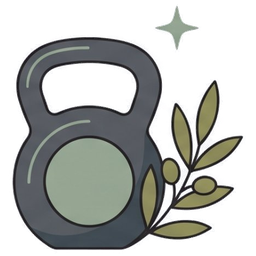
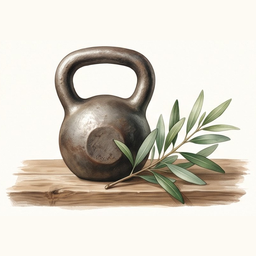
Notificações com as ilustrações em aquarela (o traço fica como opção)
Claude-Session: https://claude.ai/code/session_013QPmPYUzpR9EeXVYEPfhtw

diff --git a/web/sw.js b/web/sw.js
@@ -1,7 +1,7 @@
 // Service worker: deixa o Pauta abrir sem internet (a moldura do app fica guardada no aparelho).
 // Estratégia "rede primeiro": com internet, sempre a versão mais nova dos arquivos; sem, a guardada.
 // As chamadas à API (outro endereço) nunca passam pelo cache: os dados vêm sempre do banco.
-const VERSAO = 'pauta-rotina-v4';
+const VERSAO = 'pauta-rotina-v5';
 const ARQUIVOS = [
   './',
   'assets/favicon.svg',
@@ -43,6 +43,10 @@ const ARQUIVOS = [
   'assets/notificacao/agua.png',
   'assets/notificacao/estudo.png',
   'assets/notificacao/conclusao.png',
+  'assets/notificacao/traco/academia.png',
+  'assets/notificacao/traco/agua.png',
+  'assets/notificacao/traco/estudo.png',
+  'assets/notificacao/traco/conclusao.png',
   'js/ui/lembretes.js',
   'js/ui/icons.js',
   'js/ui/menu.js',

diff --git a/web/js/ui/emojis.js b/web/js/ui/emojis.js
@@ -3,7 +3,10 @@
 // (assets/notificacao/*.png); os outros hábitos usam emoji. É enfeite: o texto continua dizendo tudo.
 import { normalizar } from '../core/format.js';
 
-const FIGURA = (nome) => `assets/notificacao/${nome}.png`;
+// Dois conjuntos de ilustrações: 'aquarela' (padrão) e 'traco' (assets/notificacao/traco/).
+// Para trocar o estilo de todas as notificações, mude só esta linha.
+const ESTILO = 'aquarela';
+const FIGURA = (nome) => (ESTILO === 'traco' ? `assets/notificacao/traco/${nome}.png` : `assets/notificacao/${nome}.png`);
 /** A figura é uma ilustração (caminho de imagem) ou um emoji? */
 export const ehImagem = (figura) => typeof figura === 'string' && figura.startsWith('assets/');
 

diff --git a/web/css/componentes.css b/web/css/componentes.css
@@ -762,10 +762,10 @@ input[type='date'].entrada {
   width: 36px;
   height: 36px;
   margin: -6px 0 -6px -4px;
-  padding: 3px;
-  border-radius: 10px;
-  /* o mesmo papel claro das ilustrações: o kettlebell escuro não some na notificação escura */
-  background: #f0f1f5;
+  overflow: hidden;
+  border-radius: 9px;
+  /* o papel creme das aquarelas: a ilustração vira um cartãozinho, legível na notificação clara ou escura */
+  background: #fdfaf3;
   animation: emoji-entra 420ms var(--curva-mola) both;
 }
 .toast__figura img {
